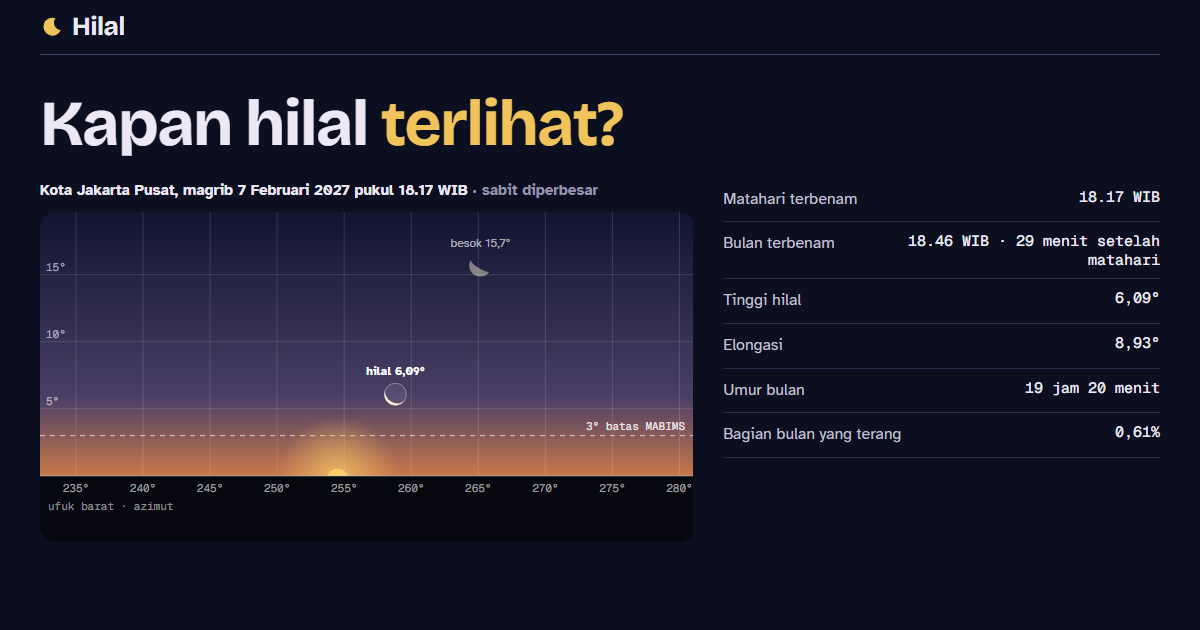
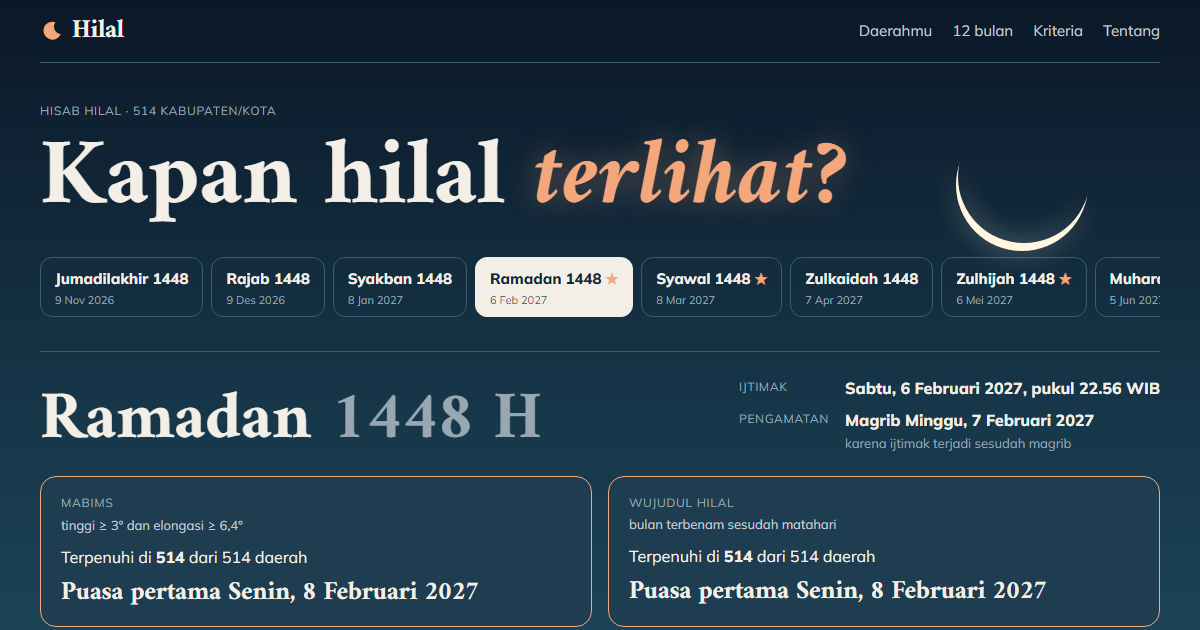
Tampilan baru: senja magrib

diff --git a/src/gaya.css b/src/gaya.css
@@ -1,67 +1,38 @@
 :root {
-  color-scheme: light;
-  --kertas: #f4f0e8;
-  --kertas-2: #ebe5d9;
-  --kertas-3: #dfd7c7;
-  --tinta: #1d1b3a;
-  --tinta-2: #45435f;
-  --samar: #66647a;
-  --garis: #d8d0c1;
-  --garis-kuat: #b4ab99;
-  --aksen: #8a5a0e;
-  --aksen-lembut: #f0dfba;
-  --laut: #e9e4da;
-  --sorot: #2f4fa3;
-  --ya: #2f6b3a;
-  --tidak: #9a3324;
-  /* peta: divergen di 0° (divalidasi per sisi) */
-  --biru-1: #8c9fc2;
-  --biru-2: #5b74a3;
-  --biru-3: #2e4677;
-  --netral: #d2cbbd;
-  --emas-1: #d29a35;
-  --emas-2: #b47a1c;
-  --emas-3: #7f520c;
+  /* senja maghrib: langit biru tua ke teal, ufuk jingga, sabit tipis */
+  color-scheme: dark;
+  --kertas: #122838;
+  --kertas-2: #1a3446;
+  --kertas-3: #24435a;
+  --tinta: #f3efe6;
+  --tinta-2: #c4ccd2;
+  --samar: #98a7b2;
+  --garis: #24435a;
+  --garis-kuat: #3a5d74;
+  --aksen: #f4a77a;
+  --aksen-lembut: #1f3d50;
+  --laut: #0f2433;
+  --sorot: #9ec5ff;
+  --ya: #7fd18f;
+  --tidak: #ff9a85;
+  /* peta: divergen di 0°, lembayung di bawah ufuk, emas di atas (divalidasi per sisi di atas --laut) */
+  --biru-1: #665a99;
+  --biru-2: #9285c9;
+  --biru-3: #c9bdf2;
+  --netral: #46586a;
+  --emas-1: #8a5d16;
+  --emas-2: #c9902f;
+  --emas-3: #f2cd7a;
   /* langit senja */
-  --langit-atas: #3b4a7a;
-  --langit-tengah: #b88a8f;
-  --langit-ufuk: #f2b26b;
-  --tanah: #2a2638;
+  --langit-atas: #0f1d33;
+  --langit-tengah: #3c4a6a;
+  --langit-ufuk: #e7956d;
+  --tanah: #06070f;
   --surya: #ffcf6b;
-  --bulan: #fff6d9;
-  --huruf-judul: "Bricolage Grotesque Variable", system-ui, sans-serif;
-  --huruf: "Atkinson Hyperlegible", system-ui, sans-serif;
-  --mono: "Geist Mono Variable", ui-monospace, monospace;
-}
-@media (prefers-color-scheme: dark) {
-  :root {
-    color-scheme: dark;
-    --kertas: #0c0f1f;
-    --kertas-2: #141831;
-    --kertas-3: #1d2242;
-    --tinta: #ece9f5;
-    --tinta-2: #c2c0d6;
-    --samar: #9593ad;
-    --garis: #262b4b;
-    --garis-kuat: #3b4168;
-    --aksen: #f0c45a;
-    --aksen-lembut: #3d3112;
-    --laut: #10142a;
-    --sorot: #8fb0ff;
-    --ya: #7fd18f;
-    --tidak: #ff9a85;
-    --biru-1: #33476e;
-    --biru-2: #5671a3;
-    --biru-3: #90a9d6;
-    --netral: #3a3d52;
-    --emas-1: #8a5d16;
-    --emas-2: #c9902f;
-    --emas-3: #f2cd7a;
-    --langit-atas: #0f1430;
-    --langit-tengah: #4a3f66;
-    --langit-ufuk: #c9784a;
-    --tanah: #06070f;
-  }
+  --bulan: #fff7e0;
+  --huruf-judul: "Amiri", Georgia, serif;
+  --huruf: "Mulish", system-ui, sans-serif;
+  --mono: "Mulish", system-ui, sans-serif;
 }
 
 *,
@@ -71,9 +42,17 @@
 }
 body {
   margin: 0;
-  background: var(--kertas);
   color: var(--tinta);
   font: 400 16px/1.6 var(--huruf);
+  font-variant-numeric: tabular-nums;
+  /* zenit gelap di atas, makin ke bawah langit sisa senja */
+  background:
+    radial-gradient(1px 1px at 12% 6%, rgb(255 255 255 / 0.7) 50%, transparent 51%) 0 0 / 100% 900px no-repeat,
+    radial-gradient(1px 1px at 38% 3%, rgb(255 255 255 / 0.55) 50%, transparent 51%) 0 0 / 100% 900px no-repeat,
+    radial-gradient(1.2px 1.2px at 63% 9%, rgb(255 255 255 / 0.6) 50%, transparent 51%) 0 0 / 100% 900px no-repeat,
+    radial-gradient(1px 1px at 86% 4%, rgb(255 255 255 / 0.5) 50%, transparent 51%) 0 0 / 100% 900px no-repeat,
+    linear-gradient(180deg, #0b1828 0, #17374a 420px, #1f4a5e 760px, var(--kertas) 1100px) 0 0 / 100% 1100px no-repeat,
+    var(--kertas);
 }
 a {
   color: inherit;
@@ -113,17 +92,19 @@ h1,
 h2 {
   font-family: var(--huruf-judul);
   font-weight: 700;
-  letter-spacing: -0.025em;
+  letter-spacing: 0;
+  text-wrap: balance;
 }
 h1 {
   margin: 12px 0 0;
-  font-size: clamp(44px, 7.5vw, 96px);
-  line-height: 0.98;
+  font-size: clamp(46px, 7.8vw, 104px);
+  line-height: 1.02;
 }
 h1 em,
 h2 em {
-  font-style: normal;
+  font-style: italic;
   color: var(--aksen);
+  text-shadow: 0 0 28px rgb(244 167 122 / 0.35);
 }
 h2 {
   margin: 8px 0 0;
@@ -170,7 +151,22 @@ main,
 
 /* ---------- pembuka ---------- */
 .pembuka {
+  position: relative;
   padding: clamp(36px, 6vw, 72px) 0 0;
+}
+/* sabit tipis di langit barat */
+.pembuka::before {
+  content: "";
+  position: absolute;
+  top: clamp(24px, 5vw, 56px);
+  right: clamp(8px, 6vw, 80px);
+  width: clamp(70px, 11vw, 150px);
+  aspect-ratio: 1;
+  border-radius: 50%;
+  /* sisi terang menghadap ke bawah, ke matahari yang baru terbenam */
+  box-shadow: inset 2px clamp(-8px, -0.9vw, -5px) 0 0 var(--bulan);
+  filter: drop-shadow(0 0 12px rgb(255 247 224 / 0.45));
+  pointer-events: none;
 }
 .lead {
   margin: 20px 0 0;

diff --git a/index.html b/index.html
@@ -17,8 +17,7 @@
     <meta property="og:image:height" content="630" />
     <meta name="twitter:card" content="summary_large_image" />
     <link rel="canonical" href="https://hilal.raffstw.my.id/" />
-    <meta name="theme-color" content="#f4f0e8" media="(prefers-color-scheme: light)" />
-    <meta name="theme-color" content="#0c0f1f" media="(prefers-color-scheme: dark)" />
+    <meta name="theme-color" content="#0b1828" />
     <link rel="icon" href="/ikon.svg" type="image/svg+xml" />
   </head>
   <body>

diff --git a/src/main.ts b/src/main.ts
@@ -1,7 +1,8 @@
-import "@fontsource-variable/bricolage-grotesque";
-import "@fontsource/atkinson-hyperlegible/400.css";
-import "@fontsource/atkinson-hyperlegible/700.css";
-import "@fontsource-variable/geist-mono";
+import "@fontsource/amiri/700";
+import "@fontsource/amiri/700-italic";
+import "@fontsource/mulish/400";
+import "@fontsource/mulish/600";
+import "@fontsource/mulish/800";
 import "./gaya.css";
 import {
   DAERAH,

diff --git a/README.md b/README.md
@@ -17,8 +17,8 @@ yang dikenal di Indonesia: **MABIMS** (tinggi ≥ 3°, elongasi ≥ 6,4°) dan *
   harinya, dengan garis batas 3°.
 - **Tabel dan grafik sebaran** yang memperlihatkan kapan kedua kriteria sepakat dan kapan
   tidak, bersama kasus nyata ketika awal bulan memang berbeda.
-- Tautan per bulan dan daerah (`#bulan=ramadan-1448&daerah=kota-jakarta-pusat`). Mode gelap
-  mengikuti sistem.
+- Tautan per bulan dan daerah (`#bulan=ramadan-1448&daerah=kota-jakarta-pusat`).
+- Tampilan senja magrib: langit biru tua ke teal, aksen jingga ufuk, sabit tipis.
 
 ## Perhitungan
 
@@ -55,4 +55,5 @@ npm run build
 ```
 
 Vite + TypeScript, tanpa framework UI; peta dengan d3-geo dan topojson-client. Peta warna
-tinggi hilal divergen di 0°, divalidasi untuk latar terang dan gelap.
+tinggi hilal divergen di 0°: lembayung di bawah ufuk, emas di atasnya, tiap sisi
+divalidasi ordinal terhadap latar peta #0f2433.
